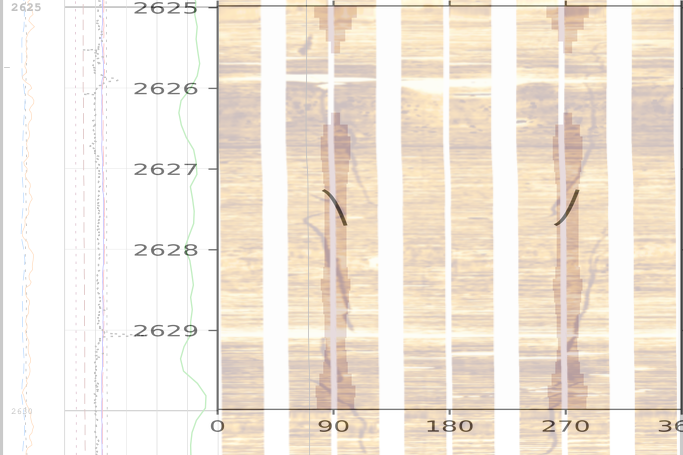
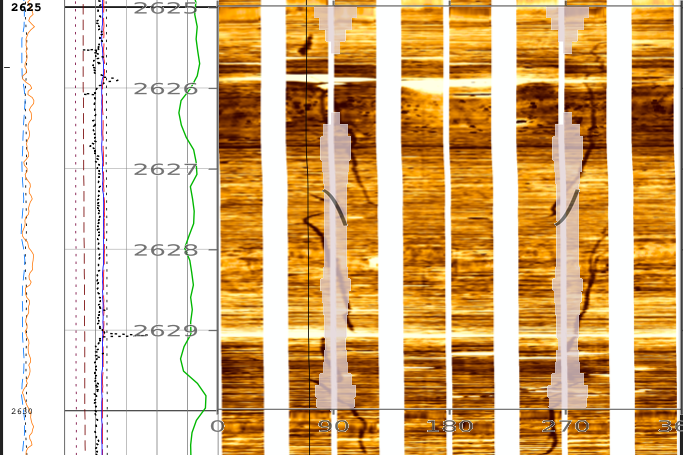
Add the sympy derivation code

diff --git a/stresslog/sensitivity_analysis.py b/stresslog/sensitivity_analysis.py
@@ -1,0 +1,139 @@
+import random
+import numpy as np
+from sympy import symbols, Eq, cos, sin, sqrt, solve, expand, Add, N
+
+# Define symbols (using the same names as in your equation)
+bhp, pp, ucs, nu, theta = symbols("bhp pp ucs nu theta")
+Sb00, Sb11, Sb22, Sb01, Sb02, Sb12 = symbols("Sb00 Sb11 Sb22 Sb01 Sb02 Sb12")
+sigmaT = symbols("sigmaT")  # defined later
+
+# Derived variables and expressions (as in your code)
+deltaP = bhp - pp
+tensile_strength = -ucs / 10
+
+Szz = Sb22 - 2*nu*(Sb00 - Sb11)*cos(2*theta) - 4*nu*Sb01*sin(2*theta)
+Stt = Sb00 + Sb11 - 2*(Sb00 - Sb11)*cos(2*theta) - 4*Sb01*sin(2*theta) - deltaP - sigmaT
+Ttz = 2*(Sb12*cos(theta) - Sb02*sin(theta))
+
+STMax = 0.5*(Szz + Stt + sqrt((Szz - Stt)**2 + 4*Ttz**2))
+Stmin = 0.5*(Szz + Stt - sqrt((Szz - Stt)**2 + 4*Ttz**2))
+
+# The equation that defines the critical condition
+equation = Eq(Stmin, tensile_strength)
+
+# Solve for bhp (this returns a list of solutions)
+bhp_critical_solution = solve(equation, bhp)
+print(bhp_critical_solution)
+"""[(40.0*Sb00**2*nu*cos(2.0*theta)**2 - 20.0*Sb00**2*nu*cos(2.0*theta) - 40.0*Sb00*Sb01*nu*sin(2.0*theta) + 80.0*Sb00*Sb01*nu*sin(4.0*theta) - 80.0*Sb00*Sb11*nu*cos(2.0*theta)**2 - 20.0*Sb00*Sb22*cos(2.0*theta) + 10.0*Sb00*Sb22 - 20.0*Sb00*nu*pp*cos(2.0*theta) + 20.0*Sb00*nu*sigmaT*cos(2.0*theta) - 2.0*Sb00*nu*ucs*cos(2.0*theta) - 2.0*Sb00*ucs*cos(2.0*theta) + Sb00*ucs + 160.0*Sb01**2*nu*sin(2.0*theta)**2 - 40.0*Sb01*Sb11*nu*sin(2.0*theta) - 80.0*Sb01*Sb11*nu*sin(4.0*theta) - 40.0*Sb01*Sb22*sin(2.0*theta) - 40.0*Sb01*nu*pp*sin(2.0*theta) + 40.0*Sb01*nu*sigmaT*sin(2.0*theta) - 4.0*Sb01*nu*ucs*sin(2.0*theta) - 4.0*Sb01*ucs*sin(2.0*theta) - 40.0*Sb02**2*sin(theta)**2 + 40.0*Sb02*Sb12*sin(2.0*theta) + 40.0*Sb11**2*nu*cos(2.0*theta)**2 + 20.0*Sb11**2*nu*cos(2.0*theta) + 20.0*Sb11*Sb22*cos(2.0*theta) + 10.0*Sb11*Sb22 + 20.0*Sb11*nu*pp*cos(2.0*theta) - 20.0*Sb11*nu*sigmaT*cos(2.0*theta) + 2.0*Sb11*nu*ucs*cos(2.0*theta) + 2.0*Sb11*ucs*cos(2.0*theta) + Sb11*ucs - 40.0*Sb12**2*cos(theta)**2 + 10.0*Sb22*pp - 10.0*Sb22*sigmaT + Sb22*ucs + pp*ucs - sigmaT*ucs + 0.1*ucs**2)/(-20.0*Sb00*nu*cos(2.0*theta) - 40.0*Sb01*nu*sin(2.0*theta) + 20.0*Sb11*nu*cos(2.0*theta) + 10.0*Sb22 + ucs)]"""
+
+# Pick the first solution (if there are multiple)
+bhp_expr = bhp_critical_solution[0]
+# Expand the expression into a sum of terms
+expanded_expr = expand(bhp_expr)
+
+# Break the expanded expression into its additive terms.
+terms = Add.make_args(expanded_expr)
+print("The expression has been broken into {} terms.".format(len(terms)))
+
+# We'll store for each term a list of contributions from each sample.
+# The key is the string version of the term.
+term_stats = {str(term): [] for term in terms}
+
+num_samples = 1000
+
+# Loop over random samples
+for i in range(num_samples):
+    # Generate a random substitution dictionary. Adjust ranges as needed.
+    subs = {
+        pp: random.uniform(1, 10),
+        ucs: random.uniform(1, 10),
+        nu: random.uniform(0.2, 0.35),  # typical Poisson ratio range
+        theta: random.uniform(0, 2*np.pi),
+        Sb00: random.uniform(-10, 10),
+        Sb11: random.uniform(-10, 10),
+        Sb22: random.uniform(-10, 10),
+        Sb01: random.uniform(-10, 10),
+        Sb02: random.uniform(-10, 10),
+        Sb12: random.uniform(-10, 10),
+        sigmaT: random.uniform(-10, 10)
+    }
+    
+    # Compute the absolute value of each term
+    term_values = {}
+    total_val = 0.0
+    for term in terms:
+        # Evaluate the term numerically for this sample.
+        term_val = abs(N(term, subs=subs))
+        term_values[str(term)] = term_val
+        total_val += term_val
+
+    # Skip this sample if the total is (close to) zero
+    if total_val == 0:
+        continue
+
+    # Compute relative contribution for each term and store it
+    for term_str, val in term_values.items():
+        relative_contrib = val / total_val  # as a fraction (0 to 1)
+        term_stats[term_str].append(relative_contrib)
+
+# Compute average, minimum, and maximum contributions (in percentages) for each term.
+summary_stats = {}
+for term_str, contributions in term_stats.items():
+    if contributions:  # avoid division by zero if no contributions recorded
+        avg = 100 * np.mean(contributions)
+        min_val = 100 * np.min(contributions)
+        max_val = 100 * np.max(contributions)
+    else:
+        avg = min_val = max_val = 0.0
+    summary_stats[term_str] = (avg, min_val, max_val)
+
+# Sort terms by average contribution (largest first)
+sorted_terms = sorted(summary_stats.items(), key=lambda x: x[1][0], reverse=True)
+
+# Print the results
+print("\nAverage, Minimum, and Maximum percentage contributions of each term:")
+for term_str, (avg, min_val, max_val) in sorted_terms:
+    print(f"{term_str:80s}: Average = {avg:6.2f}%, Min = {min_val:6.2f}%, Max = {max_val:6.2f}%")
+"""
+The expression has been broken into 38 terms.
+
+Average, Minimum, and Maximum percentage contributions of each term:
+-40.0*Sb12**2*cos(theta)**2/(-20.0*Sb00*nu*cos(2.0*theta) - 40.0*Sb01*nu*sin(2.0*theta) + 20.0*Sb11*nu*cos(2.0*theta) + 10.0*Sb22 + ucs): Average =   9.39%, Min =   0.00%, Max =  69.40%
+-40.0*Sb02**2*sin(theta)**2/(-20.0*Sb00*nu*cos(2.0*theta) - 40.0*Sb01*nu*sin(2.0*theta) + 20.0*Sb11*nu*cos(2.0*theta) + 10.0*Sb22 + ucs): Average =   8.21%, Min =   0.00%, Max =  85.69%
+40.0*Sb02*Sb12*sin(2.0*theta)/(-20.0*Sb00*nu*cos(2.0*theta) - 40.0*Sb01*nu*sin(2.0*theta) + 20.0*Sb11*nu*cos(2.0*theta) + 10.0*Sb22 + ucs): Average =   7.97%, Min =   0.00%, Max =  46.34%
+160.0*Sb01**2*nu*sin(2.0*theta)**2/(-20.0*Sb00*nu*cos(2.0*theta) - 40.0*Sb01*nu*sin(2.0*theta) + 20.0*Sb11*nu*cos(2.0*theta) + 10.0*Sb22 + ucs): Average =   7.82%, Min =   0.00%, Max =  58.35%
+-40.0*Sb01*Sb22*sin(2.0*theta)/(-20.0*Sb00*nu*cos(2.0*theta) - 40.0*Sb01*nu*sin(2.0*theta) + 20.0*Sb11*nu*cos(2.0*theta) + 10.0*Sb22 + ucs): Average =   7.16%, Min =   0.00%, Max =  31.87%
+80.0*Sb00*Sb01*nu*sin(4.0*theta)/(-20.0*Sb00*nu*cos(2.0*theta) - 40.0*Sb01*nu*sin(2.0*theta) + 20.0*Sb11*nu*cos(2.0*theta) + 10.0*Sb22 + ucs): Average =   4.10%, Min =   0.00%, Max =  22.78%
+-80.0*Sb01*Sb11*nu*sin(4.0*theta)/(-20.0*Sb00*nu*cos(2.0*theta) - 40.0*Sb01*nu*sin(2.0*theta) + 20.0*Sb11*nu*cos(2.0*theta) + 10.0*Sb22 + ucs): Average =   4.09%, Min =   0.00%, Max =  20.15%
+20.0*Sb11*Sb22*cos(2.0*theta)/(-20.0*Sb00*nu*cos(2.0*theta) - 40.0*Sb01*nu*sin(2.0*theta) + 20.0*Sb11*nu*cos(2.0*theta) + 10.0*Sb22 + ucs): Average =   4.09%, Min =   0.00%, Max =  25.79%
+-20.0*Sb00*Sb22*cos(2.0*theta)/(-20.0*Sb00*nu*cos(2.0*theta) - 40.0*Sb01*nu*sin(2.0*theta) + 20.0*Sb11*nu*cos(2.0*theta) + 10.0*Sb22 + ucs): Average =   4.06%, Min =   0.00%, Max =  23.20%
+10.0*Sb22*pp/(-20.0*Sb00*nu*cos(2.0*theta) - 40.0*Sb01*nu*sin(2.0*theta) + 20.0*Sb11*nu*cos(2.0*theta) + 10.0*Sb22 + ucs): Average =   3.68%, Min =   0.01%, Max =  32.80%
+-80.0*Sb00*Sb11*nu*cos(2.0*theta)**2/(-20.0*Sb00*nu*cos(2.0*theta) - 40.0*Sb01*nu*sin(2.0*theta) + 20.0*Sb11*nu*cos(2.0*theta) + 10.0*Sb22 + ucs): Average =   3.53%, Min =   0.00%, Max =  24.62%
+-10.0*Sb22*sigmaT/(-20.0*Sb00*nu*cos(2.0*theta) - 40.0*Sb01*nu*sin(2.0*theta) + 20.0*Sb11*nu*cos(2.0*theta) + 10.0*Sb22 + ucs): Average =   3.41%, Min =   0.00%, Max =  28.63%
+10.0*Sb00*Sb22/(-20.0*Sb00*nu*cos(2.0*theta) - 40.0*Sb01*nu*sin(2.0*theta) + 20.0*Sb11*nu*cos(2.0*theta) + 10.0*Sb22 + ucs): Average =   3.19%, Min =   0.01%, Max =  23.56%
+10.0*Sb11*Sb22/(-20.0*Sb00*nu*cos(2.0*theta) - 40.0*Sb01*nu*sin(2.0*theta) + 20.0*Sb11*nu*cos(2.0*theta) + 10.0*Sb22 + ucs): Average =   3.13%, Min =   0.01%, Max =  22.10%
+40.0*Sb11**2*nu*cos(2.0*theta)**2/(-20.0*Sb00*nu*cos(2.0*theta) - 40.0*Sb01*nu*sin(2.0*theta) + 20.0*Sb11*nu*cos(2.0*theta) + 10.0*Sb22 + ucs): Average =   2.56%, Min =   0.00%, Max =  27.51%
+40.0*Sb00**2*nu*cos(2.0*theta)**2/(-20.0*Sb00*nu*cos(2.0*theta) - 40.0*Sb01*nu*sin(2.0*theta) + 20.0*Sb11*nu*cos(2.0*theta) + 10.0*Sb22 + ucs): Average =   2.49%, Min =   0.00%, Max =  33.39%
+-40.0*Sb01*nu*pp*sin(2.0*theta)/(-20.0*Sb00*nu*cos(2.0*theta) - 40.0*Sb01*nu*sin(2.0*theta) + 20.0*Sb11*nu*cos(2.0*theta) + 10.0*Sb22 + ucs): Average =   2.27%, Min =   0.00%, Max =  14.16%
+40.0*Sb01*nu*sigmaT*sin(2.0*theta)/(-20.0*Sb00*nu*cos(2.0*theta) - 40.0*Sb01*nu*sin(2.0*theta) + 20.0*Sb11*nu*cos(2.0*theta) + 10.0*Sb22 + ucs): Average =   2.07%, Min =   0.00%, Max =  12.33%
+-40.0*Sb00*Sb01*nu*sin(2.0*theta)/(-20.0*Sb00*nu*cos(2.0*theta) - 40.0*Sb01*nu*sin(2.0*theta) + 20.0*Sb11*nu*cos(2.0*theta) + 10.0*Sb22 + ucs): Average =   2.01%, Min =   0.00%, Max =  10.95%
+-40.0*Sb01*Sb11*nu*sin(2.0*theta)/(-20.0*Sb00*nu*cos(2.0*theta) - 40.0*Sb01*nu*sin(2.0*theta) + 20.0*Sb11*nu*cos(2.0*theta) + 10.0*Sb22 + ucs): Average =   1.97%, Min =   0.00%, Max =  11.91%
+20.0*Sb11**2*nu*cos(2.0*theta)/(-20.0*Sb00*nu*cos(2.0*theta) - 40.0*Sb01*nu*sin(2.0*theta) + 20.0*Sb11*nu*cos(2.0*theta) + 10.0*Sb22 + ucs): Average =   1.59%, Min =   0.00%, Max =  13.81%
+-20.0*Sb00**2*nu*cos(2.0*theta)/(-20.0*Sb00*nu*cos(2.0*theta) - 40.0*Sb01*nu*sin(2.0*theta) + 20.0*Sb11*nu*cos(2.0*theta) + 10.0*Sb22 + ucs): Average =   1.56%, Min =   0.00%, Max =  17.68%
+20.0*Sb11*nu*pp*cos(2.0*theta)/(-20.0*Sb00*nu*cos(2.0*theta) - 40.0*Sb01*nu*sin(2.0*theta) + 20.0*Sb11*nu*cos(2.0*theta) + 10.0*Sb22 + ucs): Average =   1.32%, Min =   0.00%, Max =   8.94%
+-20.0*Sb00*nu*pp*cos(2.0*theta)/(-20.0*Sb00*nu*cos(2.0*theta) - 40.0*Sb01*nu*sin(2.0*theta) + 20.0*Sb11*nu*cos(2.0*theta) + 10.0*Sb22 + ucs): Average =   1.32%, Min =   0.00%, Max =  16.03%
+-20.0*Sb11*nu*sigmaT*cos(2.0*theta)/(-20.0*Sb00*nu*cos(2.0*theta) - 40.0*Sb01*nu*sin(2.0*theta) + 20.0*Sb11*nu*cos(2.0*theta) + 10.0*Sb22 + ucs): Average =   1.25%, Min =   0.00%, Max =  13.39%
+20.0*Sb00*nu*sigmaT*cos(2.0*theta)/(-20.0*Sb00*nu*cos(2.0*theta) - 40.0*Sb01*nu*sin(2.0*theta) + 20.0*Sb11*nu*cos(2.0*theta) + 10.0*Sb22 + ucs): Average =   1.24%, Min =   0.00%, Max =  16.95%
+-4.0*Sb01*ucs*sin(2.0*theta)/(-20.0*Sb00*nu*cos(2.0*theta) - 40.0*Sb01*nu*sin(2.0*theta) + 20.0*Sb11*nu*cos(2.0*theta) + 10.0*Sb22 + ucs): Average =   0.88%, Min =   0.00%, Max =   4.60%
+-2.0*Sb00*ucs*cos(2.0*theta)/(-20.0*Sb00*nu*cos(2.0*theta) - 40.0*Sb01*nu*sin(2.0*theta) + 20.0*Sb11*nu*cos(2.0*theta) + 10.0*Sb22 + ucs): Average =   0.51%, Min =   0.00%, Max =   6.40%
+2.0*Sb11*ucs*cos(2.0*theta)/(-20.0*Sb00*nu*cos(2.0*theta) - 40.0*Sb01*nu*sin(2.0*theta) + 20.0*Sb11*nu*cos(2.0*theta) + 10.0*Sb22 + ucs): Average =   0.50%, Min =   0.00%, Max =   3.67%
+pp*ucs/(-20.0*Sb00*nu*cos(2.0*theta) - 40.0*Sb01*nu*sin(2.0*theta) + 20.0*Sb11*nu*cos(2.0*theta) + 10.0*Sb22 + ucs): Average =   0.46%, Min =   0.02%, Max =   5.25%
+-sigmaT*ucs/(-20.0*Sb00*nu*cos(2.0*theta) - 40.0*Sb01*nu*sin(2.0*theta) + 20.0*Sb11*nu*cos(2.0*theta) + 10.0*Sb22 + ucs): Average =   0.41%, Min =   0.00%, Max =   3.34%
+Sb00*ucs/(-20.0*Sb00*nu*cos(2.0*theta) - 40.0*Sb01*nu*sin(2.0*theta) + 20.0*Sb11*nu*cos(2.0*theta) + 10.0*Sb22 + ucs): Average =   0.40%, Min =   0.00%, Max =   3.21%
+Sb11*ucs/(-20.0*Sb00*nu*cos(2.0*theta) - 40.0*Sb01*nu*sin(2.0*theta) + 20.0*Sb11*nu*cos(2.0*theta) + 10.0*Sb22 + ucs): Average =   0.39%, Min =   0.00%, Max =   2.86%
+Sb22*ucs/(-20.0*Sb00*nu*cos(2.0*theta) - 40.0*Sb01*nu*sin(2.0*theta) + 20.0*Sb11*nu*cos(2.0*theta) + 10.0*Sb22 + ucs): Average =   0.38%, Min =   0.00%, Max =   2.46%
+-4.0*Sb01*nu*ucs*sin(2.0*theta)/(-20.0*Sb00*nu*cos(2.0*theta) - 40.0*Sb01*nu*sin(2.0*theta) + 20.0*Sb11*nu*cos(2.0*theta) + 10.0*Sb22 + ucs): Average =   0.24%, Min =   0.00%, Max =   1.22%
+-2.0*Sb00*nu*ucs*cos(2.0*theta)/(-20.0*Sb00*nu*cos(2.0*theta) - 40.0*Sb01*nu*sin(2.0*theta) + 20.0*Sb11*nu*cos(2.0*theta) + 10.0*Sb22 + ucs): Average =   0.14%, Min =   0.00%, Max =   1.61%
+2.0*Sb11*nu*ucs*cos(2.0*theta)/(-20.0*Sb00*nu*cos(2.0*theta) - 40.0*Sb01*nu*sin(2.0*theta) + 20.0*Sb11*nu*cos(2.0*theta) + 10.0*Sb22 + ucs): Average =   0.14%, Min =   0.00%, Max =   0.96%
+0.1*ucs**2/(-20.0*Sb00*nu*cos(2.0*theta) - 40.0*Sb01*nu*sin(2.0*theta) + 20.0*Sb11*nu*cos(2.0*theta) + 10.0*Sb22 + ucs): Average =   0.06%, Min =   0.00%, Max =   0.62%
+"""

diff --git a/stresslog/fracgrad_equation.py b/stresslog/fracgrad_equation.py
@@ -1,0 +1,30 @@
+from sympy import symbols, Eq, cos, sin, sqrt, solve
+
+# Define variables
+bhp, pp, ucs, nu, theta = symbols("bhp pp ucs nu theta")
+Sb00, Sb11, Sb22, Sb01, Sb02, Sb12 = symbols("Sb00 Sb11 Sb22 Sb01 Sb02 Sb12")
+
+# Derived variables
+deltaP = bhp - pp
+sigmaT = symbols("sigmaT")  # to be defined later
+tensile_strength = -ucs / 10
+
+# Expressions for Szz, Stt, and Ttz
+Szz = Sb22 - 2 * nu * (Sb00 - Sb11) * cos(2 * theta) - 4 * nu * Sb01 * sin(2 * theta)
+Stt = Sb00 + Sb11 - 2 * (Sb00 - Sb11) * cos(2 * theta) - 4 * Sb01 * sin(2 * theta) - deltaP - sigmaT
+Ttz = 2 * (Sb12 * cos(theta) - Sb02 * sin(theta))
+
+# Expressions for STMax and Stmin
+STMax = 0.5 * (Szz + Stt + sqrt((Szz - Stt)**2 + 4 * Ttz**2))
+Stmin = 0.5 * (Szz + Stt - sqrt((Szz - Stt)**2 + 4 * Ttz**2))
+
+# Set Stmin equal to tensile_strength
+equation = Eq(Stmin, tensile_strength)
+
+# Solve for bhp
+bhp_critical_solution = solve(equation, bhp)
+print(bhp_critical_solution)
+"""
+translated to standard python:
+(40.0*Sb11**2*nu*np.cos(2.0*theta)**2 - 20.0*Sb11**2*nu*np.cos(2.0*theta) - 40.0*Sb11*Sb12*nu*np.sin(2.0*theta) + 80.0*Sb11*Sb12*nu*np.sin(4.0*theta) - 80.0*Sb11*Sb22*nu*np.cos(2.0*theta)**2 - 20.0*Sb11*Sb33*np.cos(2.0*theta) + 10.0*Sb11*Sb33 - 20.0*Sb11*nu*pp*np.cos(2.0*theta) + 20.0*Sb11*nu*sigmaT*np.cos(2.0*theta) - 2.0*Sb11*nu*ucs*np.cos(2.0*theta) - 2.0*Sb11*ucs*np.cos(2.0*theta) + Sb11*ucs + 160.0*Sb12**2*nu*np.sin(2.0*theta)**2 - 40.0*Sb12*Sb22*nu*np.sin(2.0*theta) - 80.0*Sb12*Sb22*nu*np.sin(4.0*theta) - 40.0*Sb12*Sb33*np.sin(2.0*theta) - 40.0*Sb12*nu*pp*np.sin(2.0*theta) + 40.0*Sb12*nu*sigmaT*np.sin(2.0*theta) - 4.0*Sb12*nu*ucs*np.sin(2.0*theta) - 4.0*Sb12*ucs*np.sin(2.0*theta) - 40.0*Sb13**2*np.sin(theta)**2 + 40.0*Sb13*Sb23*np.sin(2.0*theta) + 40.0*Sb22**2*nu*np.cos(2.0*theta)**2 + 20.0*Sb22**2*nu*np.cos(2.0*theta) + 20.0*Sb22*Sb33*np.cos(2.0*theta) + 10.0*Sb22*Sb33 + 20.0*Sb22*nu*pp*np.cos(2.0*theta) - 20.0*Sb22*nu*sigmaT*np.cos(2.0*theta) + 2.0*Sb22*nu*ucs*np.cos(2.0*theta) + 2.0*Sb22*ucs*np.cos(2.0*theta) + Sb22*ucs - 40.0*Sb23**2*np.cos(theta)**2 + 10.0*Sb33*pp - 10.0*Sb33*sigmaT + Sb33*ucs + pp*ucs - sigmaT*ucs + 0.1*ucs**2)/(-20.0*Sb11*nu*np.cos(2.0*theta) - 40.0*Sb12*nu*np.sin(2.0*theta) + 20.0*Sb22*nu*np.cos(2.0*theta) + 10.0*Sb33 + ucs)
+"""

diff --git a/docs/Figures/combiner.py b/docs/Figures/combiner.py
@@ -1,11 +1,12 @@
 from PIL import Image
-
 def overlay_images(base_path, overlay_path, output_path, 
                   x_position=0, y_position=0,
                   x_scale=1.0, y_scale=1.0,
-                  transparency=0.75):
+                  transparency=0.75,
+                  white_threshold=15):  # New parameter for white detection
     """
     Overlay one image on top of another with transformation controls.
+    White pixels in the overlay image become completely transparent.
     
     Parameters:
     base_path (str): Path to the base image
@@ -16,6 +17,7 @@ def overlay_images(base_path, overlay_path, output_path,
     x_scale (float): X-axis scaling factor (default: 1.0)
     y_scale (float): Y-axis scaling factor (default: 1.0)
     transparency (float): Transparency level 0-1 (default: 0.75)
+    white_threshold (int): RGB difference from white to consider transparent (default: 2)
     """
     
     # Open the images
@@ -35,9 +37,16 @@ def overlay_images(base_path, overlay_path, output_path,
     transparent_overlay = []
     
     for item in overlay_data:
-        # Modify the alpha channel
-        new_alpha = int(item[3] * transparency)
-        transparent_overlay.append((item[0], item[1], item[2], new_alpha))
+        # Check if the pixel is close to white
+        is_white = all(abs(255 - x) <= white_threshold for x in item[:3])
+        
+        if is_white:
+            # Make white pixels completely transparent
+            transparent_overlay.append((255, 255, 255, 0))
+        else:
+            # Apply normal transparency to non-white pixels
+            new_alpha = int(item[3] * transparency)
+            transparent_overlay.append((item[0], item[1], item[2], new_alpha))
     
     overlay_img.putdata(transparent_overlay)
     

diff --git a/docs/paper/paper.md b/docs/paper/paper.md
@@ -33,7 +33,7 @@ This python package is aimed at empowering researchers with a simple to use and 
 
 # Methodology
 
-Overburden gradient [@traugott1997], pore pressure [@Zhang20132] [@Flemings2021], minimum horizontal stress [@Daines1982] [zobackbook], rock strength [@lal1999] [@horsrud2001] and other parameters are calculated considering the given well-logging, deviation, and formation data. The maximum horizontal stress is estimated by applying stress polygon [@ZOBACK2003] for every depth-sample. Borehole image interpretation is considered in the stress polygon results if available.
+Overburden gradient [@traugott1997], pore pressure [@Zhang20132] [@Flemings2021], minimum horizontal stress [@Daines1982] [@zoback1992], rock strength [@lal1999] [@horsrud2001] and other parameters are calculated considering the given well-logging, deviation, and formation data. The maximum horizontal stress is estimated by applying stress polygon [@ZOBACK2003] for every depth-sample. Borehole image interpretation is considered in the stress polygon results if available.
 
 The calculation of tilted stress states using the given methodology requires the Euler angles Alpha, Beta and Gamma. However this is not immediately apparent from a geological perspective. We therefore calculate the Euler angles from geological data in terms of dip angle and dip azimuth.
 
@@ -63,7 +63,7 @@ The well data from Equinor Northern Lights dataset [northernlights] has been use
 ![(a) Model of EOS Northern Lights Well showing the Drake I, II and IntraMarine formations. \label{fig:EOS_NorthernLights}](../Figures/WellPlot.png)
 ![(b) Fracture patterns calculated at 2624.5m and superimposed onto the image log. \label{fig:Fracture Motif}](../Figures/overlay.png)
 
-It is not being suggested that this interpretation of the data is preferred over any other, this example is merely meant to show the capability of the package.
+It is not being suggested that this interpretation of the data is preferred over any other, this example is merely meant to show the capability of the package. In particular, the analysis by [@Thompson2022] likely offers a better explanation of simultaneous en-echelon breakouts and induced fractures as it is a far more detailed analysis than the example here.
 
 # Discussion
 
